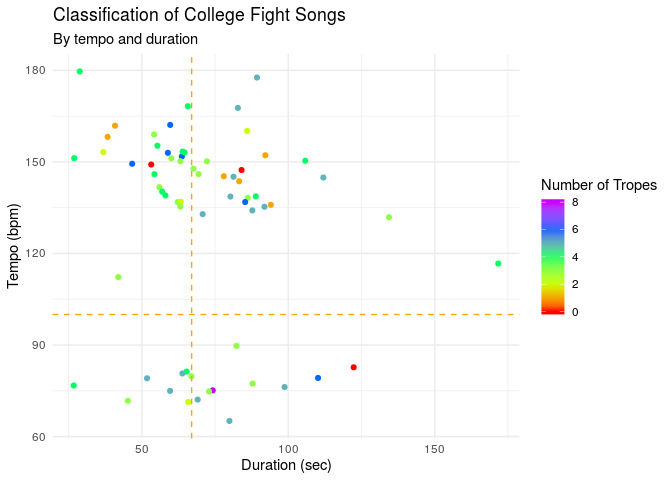
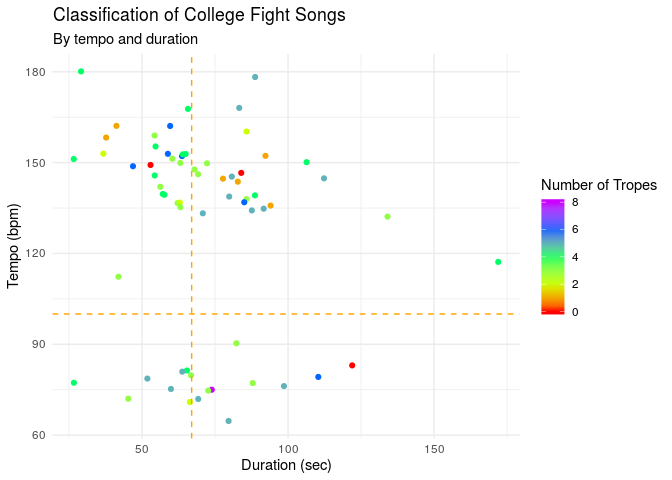
Proofreading

diff --git a/data-analysis/data-analysis.md b/data-analysis/data-analysis.md
@@ -168,7 +168,8 @@ observation with the number of tropes associated with that particular
 observation. We choose to use `geom_hline()` and `geom_vline()` to add
 horizontal and vertical reference lines to the jittered plot
 (`geom_jitter()` adds a small amount of random variation to the location
-of each point):
+of each point). We also choose to use `scale_color_gradientn()` to
+create a rainbow-colored gradient scale.
 
 ``` r
 ggplot(fight_songs, mapping = aes(x = sec_duration, y = bpm)) +
@@ -181,7 +182,7 @@ ggplot(fight_songs, mapping = aes(x = sec_duration, y = bpm)) +
        x = "Duration (sec)",
        y = "Tempo (bpm)",
        color = "Number of Tropes") +
-  scale_color_gradientn(colours = rainbow(5))
+  scale_color_gradientn(colors = rainbow(5))
 ```
 
 ![](data-analysis_files/figure-gfm/visualize-classify-1.png)<!-- -->
@@ -1255,7 +1256,7 @@ The alternative hypothesis is that there is a difference in the mean
 duration of fight songs between colleges in the east versus the west;
 Ha: mean(east) - mean(west) ≠ 0.
 
-We hypothesize that no statistically significant relationship exists
+We hypothesize that there is no statistically significant relationship
 between `sec_duration` and `region` because nearly all of the fight
 songs were created very long ago (as evidenced by the `year` variable),
 and there is no reason why fight songs associated with teams in one
